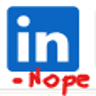
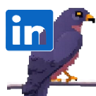
update thumb images

diff --git a/resize_imgs.py b/resize_imgs.py
@@ -1,7 +1,7 @@
 from PIL import Image
 
 # Load the image
-img = Image.open("./icons/thumb_original.png")
+img = Image.open("./icons/thumb_hawk_retro.png")
 
 # Resize and save as 48x48
 img.resize((48, 48)).save("./icons/icon-48.png")

diff --git a/README.md b/README.md
@@ -8,7 +8,7 @@ about:debugging#/runtime/this-firefox
 
 <https://extensionworkshop.com/documentation/develop/temporary-installation-in-firefox/>
 
-### Other browsers should have simmilar page in their settigns
+### Other browsers should have simmilar page in their settings
 
 ...
 
